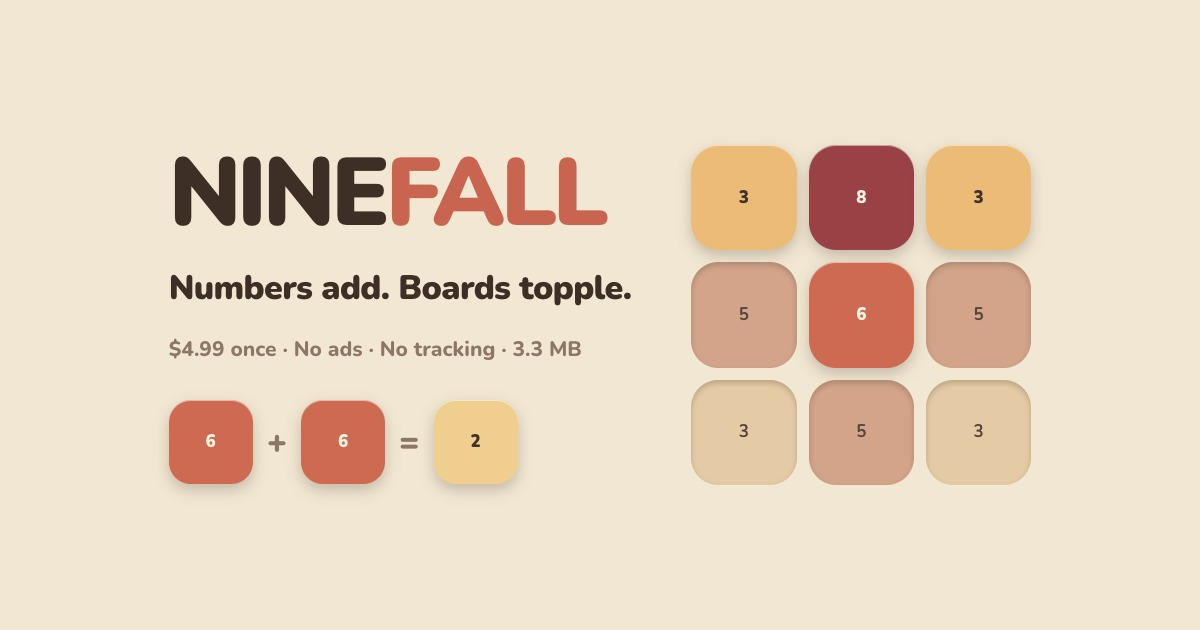
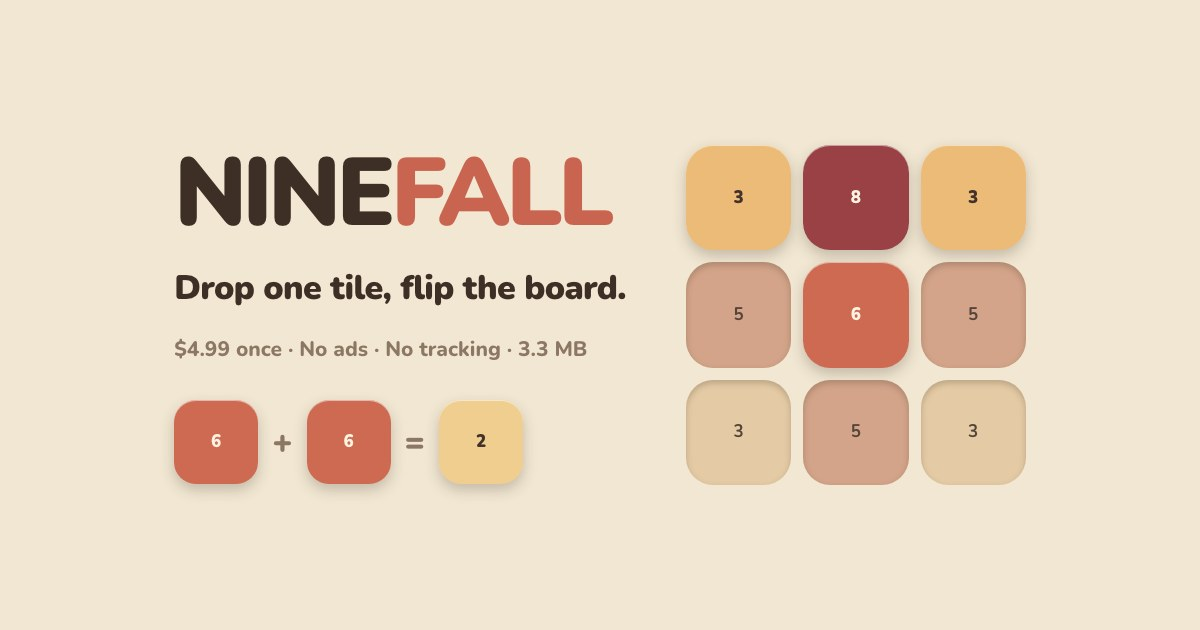
Lead with "Drop one tile, flip the board."
The hero, the page title, the OG title and the OG card all carried "Numbers
add. Boards topple.", which described the game from the outside and put no
player in the sentence. The new line stages the trade the game offers and
uses the game's own verbs.

og.html now pins itself to data-theme="day". The card is rendered by pointing
a headless browser at it, and headless Chrome reports a dark color scheme, so
regenerating the card silently produced the night palette instead of the cream
one the shipped card has always used.

diff --git a/index.html b/index.html
@@ -3,13 +3,13 @@
 <head>
 <meta charset="utf-8">
 <meta name="viewport" content="width=device-width,initial-scale=1">
-<title>Ninefall — numbers add, boards topple</title>
+<title>Ninefall — drop one tile, flip the board</title>
 <meta name="description" content="A chain-reaction number puzzle for iPhone and iPad. Play a tile, the values add, and every lower number topples after it. Past nine they roll over. Eight worlds, 96 certified-fair levels, a Daily Flip for the whole world. $4.99 once. No ads, no tracking, no account.">
 <link rel="canonical" href="https://ninefall.app/">
 <meta property="og:type" content="website">
 <meta property="og:site_name" content="Ninefall">
 <meta property="og:url" content="https://ninefall.app/">
-<meta property="og:title" content="Ninefall — numbers add, boards topple">
+<meta property="og:title" content="Ninefall — drop one tile, flip the board">
 <meta property="og:description" content="A chain-reaction number puzzle. Past nine, numbers roll over. 6 + 6 = 2. Play a real level right on the page.">
 <meta property="og:image" content="https://ninefall.app/assets/og.jpg">
 <meta name="twitter:card" content="summary_large_image">
@@ -80,7 +80,7 @@
   <div class="wrap">
     <div>
       <h1 class="display wordmark">NINE<i>FALL</i></h1>
-      <p class="tagline">Numbers add. Boards topple.</p>
+      <p class="tagline">Drop one tile, flip the board.</p>
       <p class="lead">A chain-reaction number puzzle for iPhone and iPad. Play a tile,
         the values add, and every lower-numbered neighbour topples after it. Past nine,
         numbers roll over.</p>

diff --git a/tools/og.html b/tools/og.html
@@ -1,4 +1,4 @@
-<!DOCTYPE html><html lang="en"><head><meta charset="utf-8">
+<!DOCTYPE html><html lang="en" data-theme="day"><head><meta charset="utf-8">
 <link rel="stylesheet" href="https://fonts.googleapis.com/css2?family=Nunito:wght@400..900&display=swap">
 <link rel="stylesheet" href="/assets/site.css">
 <style>
@@ -20,7 +20,7 @@
 <div class="card">
   <div class="left">
     <div class="wm">NINE<i>FALL</i></div>
-    <div class="tag">Numbers add. Boards topple.</div>
+    <div class="tag">Drop one tile, flip the board.</div>
     <div class="sub">$4.99 once &middot; No ads &middot; No tracking &middot; 3.3 MB</div>
     <div class="sum">
       <span class="tile" data-t="6"></span><span class="op">+</span>
